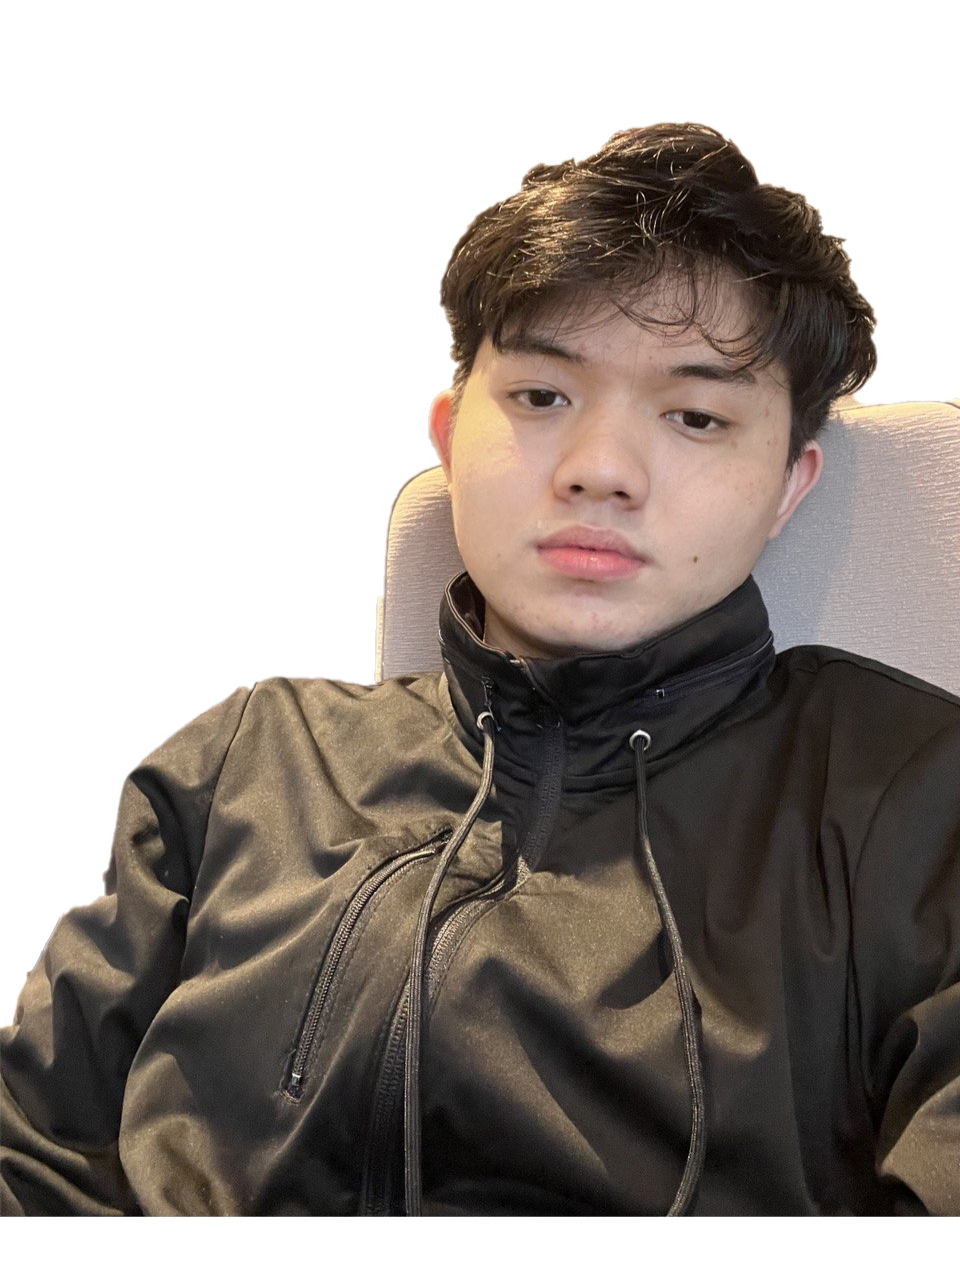
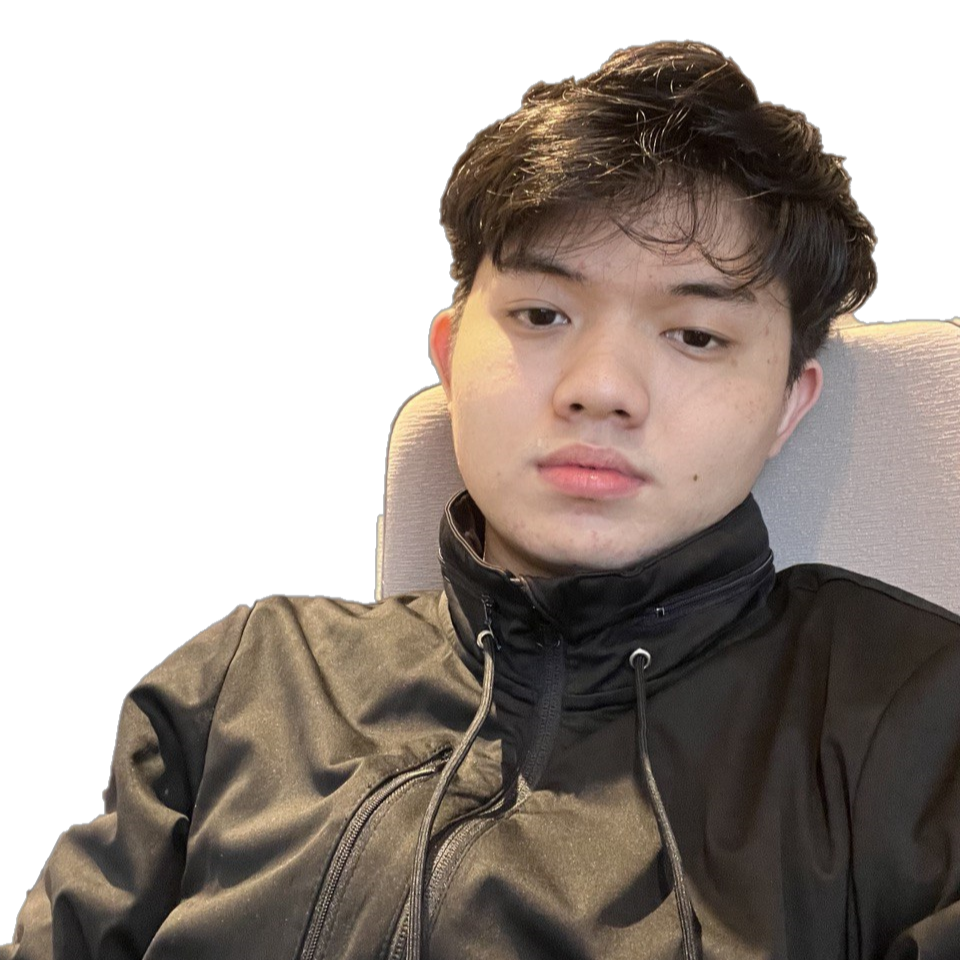
ui improve

diff --git a/src/components/Contact.js b/src/components/Contact.js
@@ -4,7 +4,7 @@ import {
   faLinkedinIn,
   faGithub,
 } from "@fortawesome/free-brands-svg-icons";
-import { faEnvelope } from "@fortawesome/free-solid-svg-icons";
+import { faEnvelopeOpenText } from "@fortawesome/free-solid-svg-icons";
 import { FontAwesomeIcon } from "@fortawesome/react-fontawesome";
 import axios from "axios";
 
@@ -16,8 +16,6 @@ function Contact() {
   const [error, setError] = useState("");
   async function submitForm(e) {
     e.preventDefault();
-    const webhookUrl =
-      "https://hooks.slack.com/services/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";
     if (
       firstName.length <= 0 ||
       lastName.length <= 0 ||
@@ -65,6 +63,13 @@ function Contact() {
               <FontAwesomeIcon icon={faGithub} className="text-white" />
             </a>
           </div>
+          <div className="text-center text-white mt-3 flex justify-center">
+            <FontAwesomeIcon
+              icon={faEnvelopeOpenText}
+              className="text-xl mr-3"
+            />
+            aungthiha12345mdy@gmail.com
+          </div>
           <div></div>
         </div>
         <div className="connect-form mt-10 lg:mt-0">
@@ -77,7 +82,7 @@ function Contact() {
             ) : (
               <></>
             )}
-            <div className="lg:flex lg:space-x-6 mb-4">
+            <div className="lg:grid grid-cols-2 lg:space-x-6 mb-4">
               <div>
                 {error.length > 0 ? <h1 className="text-pink-700">*</h1> : ""}
                 <input

diff --git a/src/components/Introduction.js b/src/components/Introduction.js
@@ -41,9 +41,12 @@ export default function Introduction() {
             >
               Hi, My name is Aung Thiha Tun
             </h1>
-            <h1 className="text-center mt-3">
-              <FontAwesomeIcon icon={faEnvelope} className="text-lg mr-3" />
-              aungthiha12345mdy@gmail.com
+            <h1 className="text-center mt-3 flex justify-center">
+              <FontAwesomeIcon
+                icon={faEnvelope}
+                className="text-xl px-3 pt-1"
+              />
+              <p>aungthiha12345mdy@gmail.com</p>
             </h1>
           </motion.div>
         </div>
@@ -59,11 +62,12 @@ export default function Introduction() {
               <img
                 src={Profile1}
                 alt="aung thiha tun"
-                className="lg:w-52 w-48 lg:ml-4 rounded-md border-4"
+                className="lg:w-60 w-48 lg:ml-4 rounded-full border-4
+                shadow-md shadow-gray-500"
               />
             </motion.div>
           </div>
-          <div className="flex lg:ml-20 justify-center lg:justify-start lg:mt-0 mt-10">
+          <div className="flex lg:ml-8 justify-center lg:justify-start lg:mt-0 mt-10">
             <motion.div
               initial={{ opacity: 0 }}
               whileInView={{ opacity: 1 }}

diff --git a/src/index.css b/src/index.css
@@ -1,10 +1,10 @@
 @tailwind base;
 @tailwind components;
 @tailwind utilities;
-@import url("https://fonts.googleapis.com/css2?family=Roboto+Slab&display=swap");
+@import url("https://fonts.googleapis.com/css2?family=EB+Garamond&display=swap");
 body {
   margin: 0;
-  font-family: "Roboto Slab", serif;
+  font-family: "EB Garamond", serif;
   -webkit-font-smoothing: antialiased;
   -moz-osx-font-smoothing: grayscale;
 }

diff --git a/src/components/Project.js b/src/components/Project.js
@@ -16,7 +16,7 @@ function Project({ img, title, explain, animate, skills, demo, source }) {
         </div>
         <div className="col-span-4 p-8">
           <div className="mb-3">
-            <h1 className="mb-5 text-xl font-bold">{title}</h1>
+            <h1 className="mb-5 text-xl font-bold ">{title}</h1>
             <p>{explain}</p>
           </div>
           <div className="my-5">

diff --git a/src/components/Skill.js b/src/components/Skill.js
@@ -10,7 +10,7 @@ function Skill({ percentage, skill, animation }) {
       >
         <h1 className="text-2xl">{percentage} %</h1>
       </div>
-      <h1 className="mt-3">{skill}</h1>
+      <h1 className="mt-3 text-center">{skill}</h1>
     </motion.div>
   );
 }
